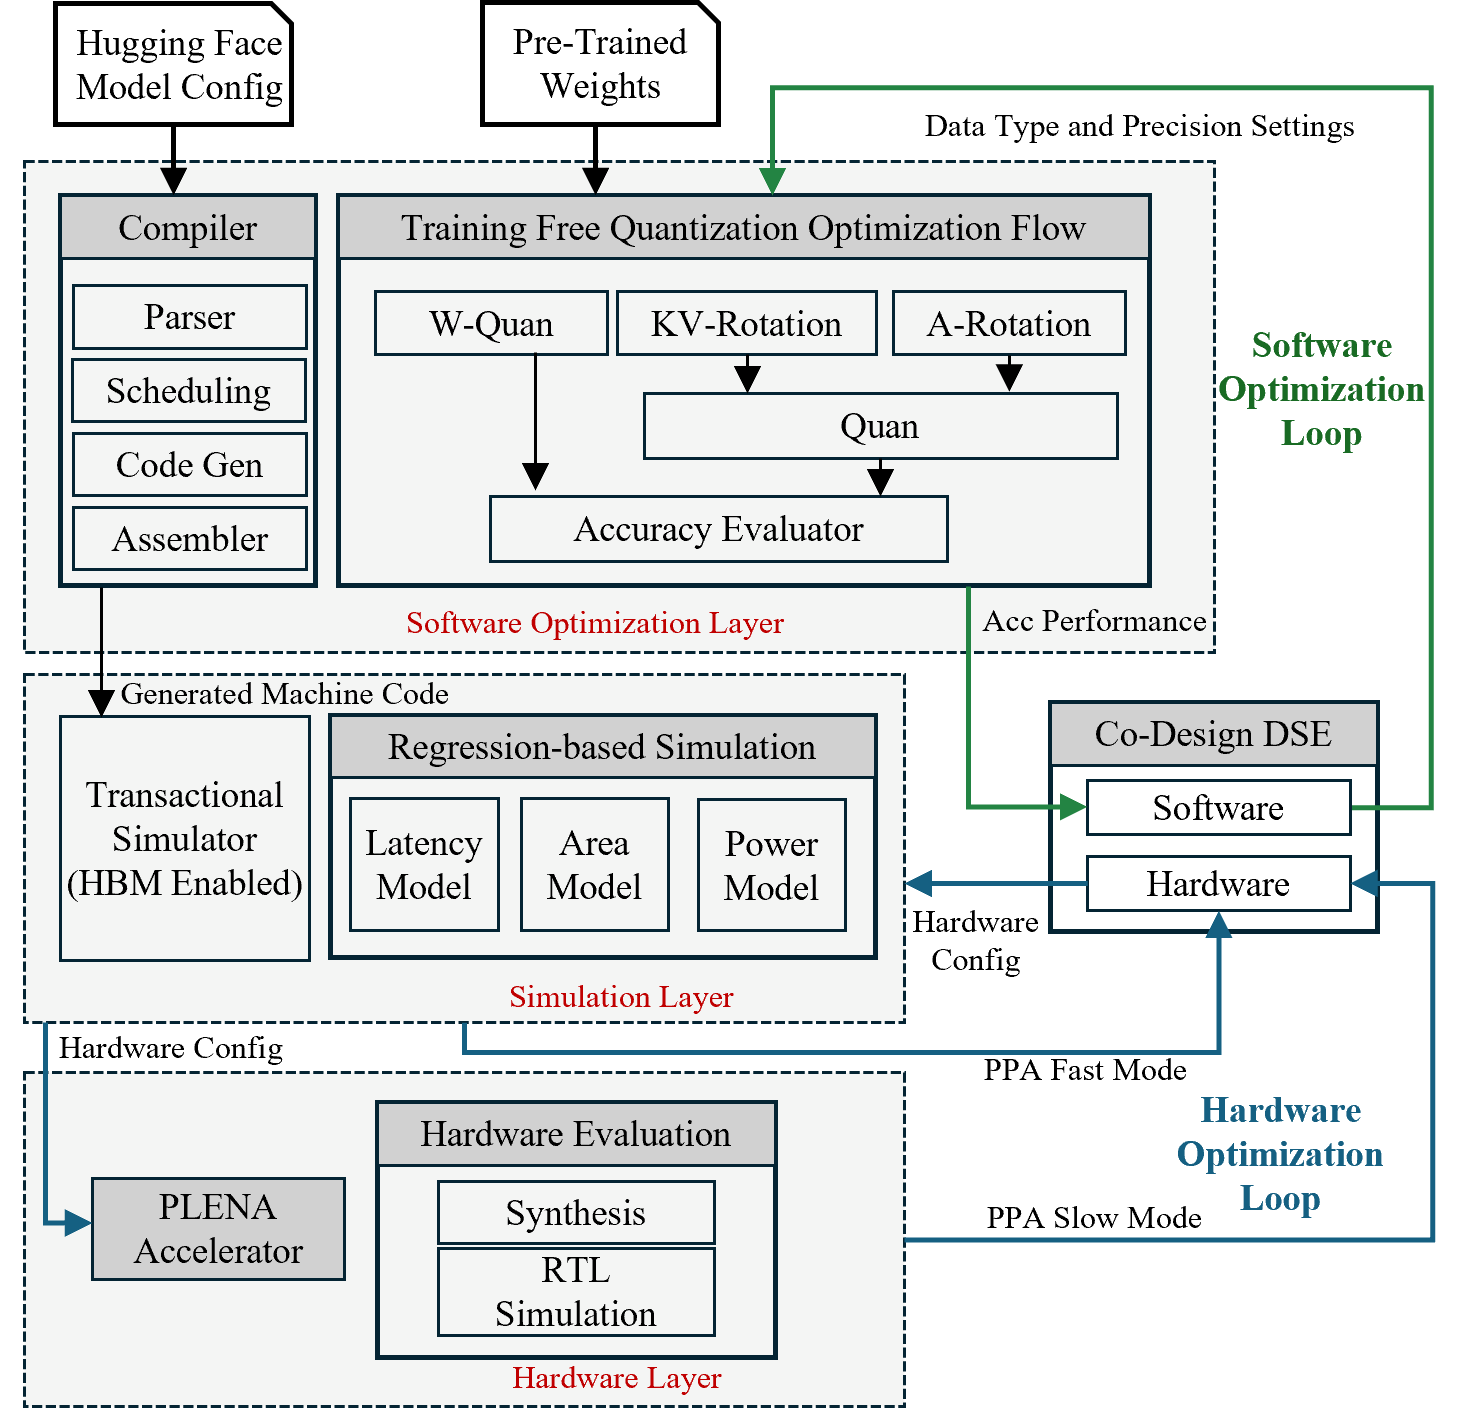
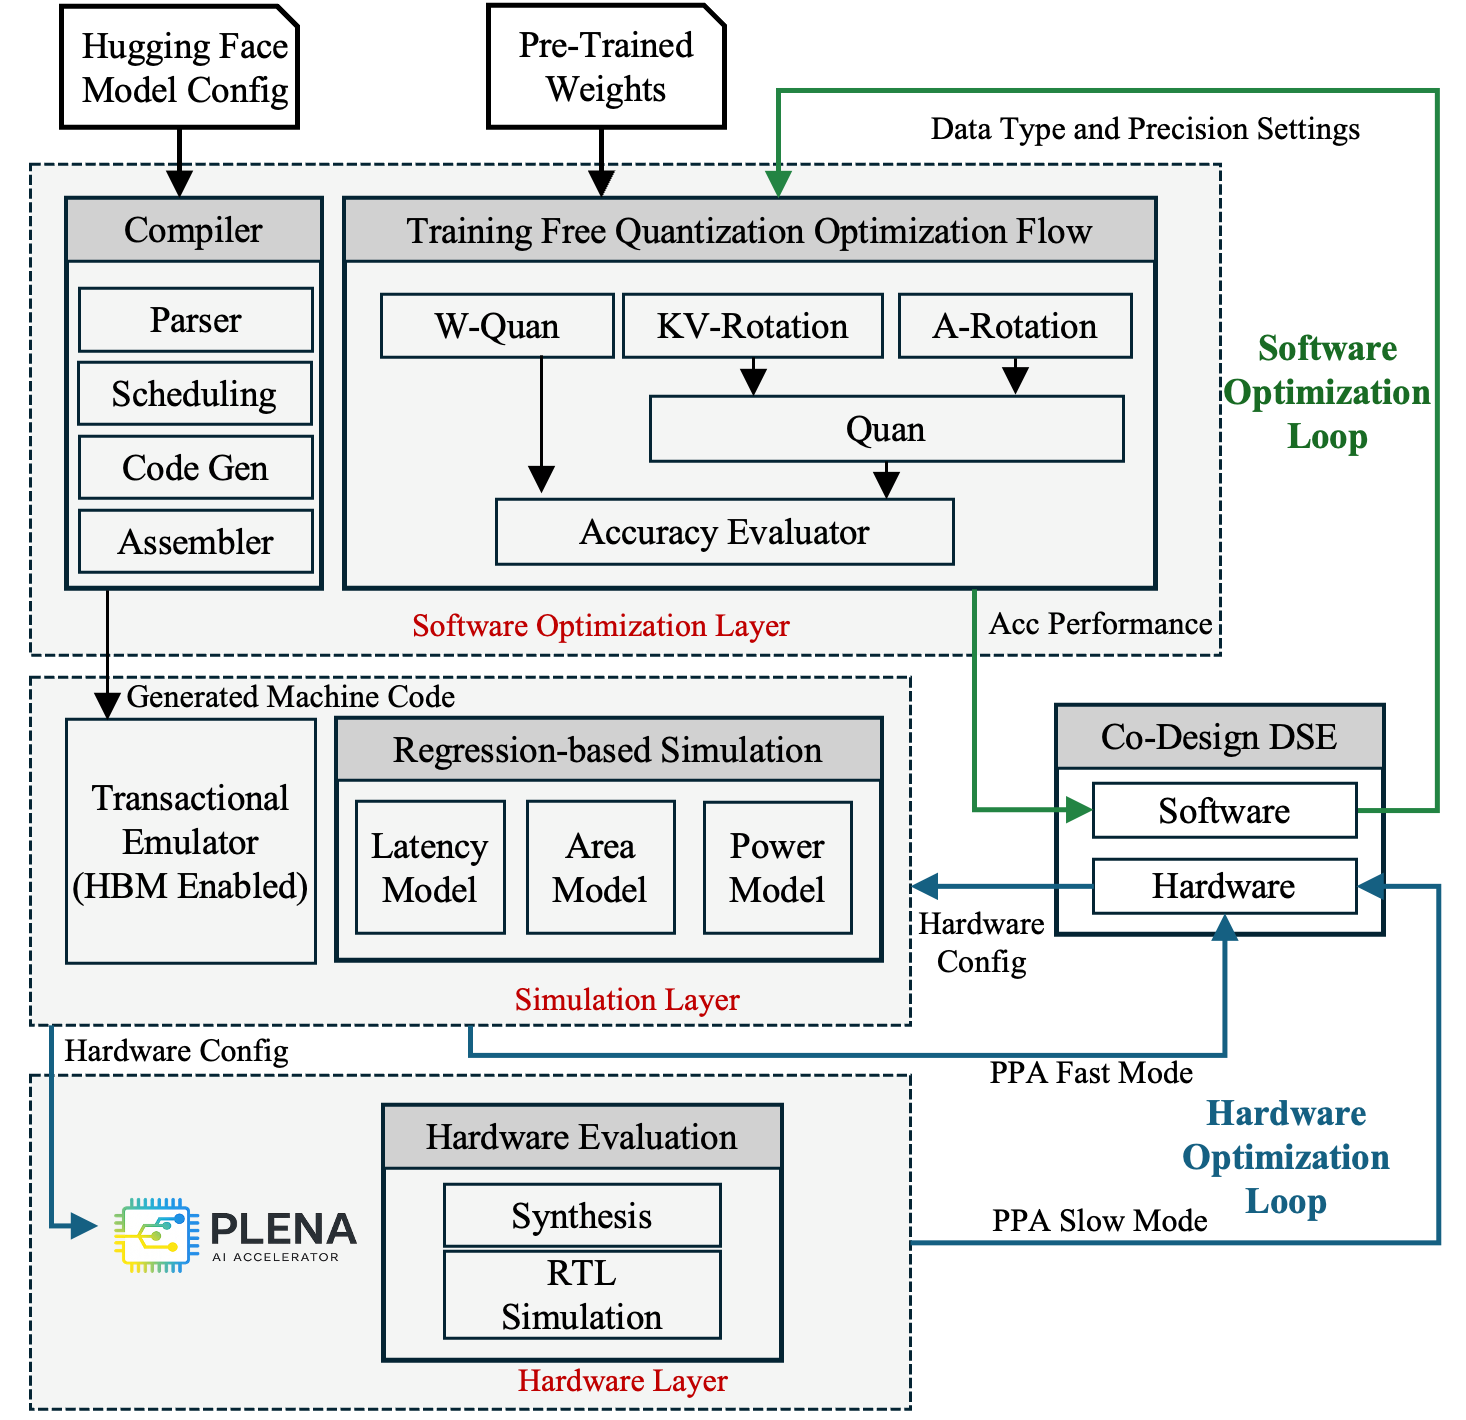
add figs for every subpage

diff --git a/doc/toolchain_overview.md b/doc/toolchain_overview.md
@@ -1,0 +1,61 @@
+# Toolchain Overview
+
+The PLENA toolchain is a full-stack framework that takes a Hugging Face model description and pre-trained weights through software optimization, simulation, and hardware evaluation. It is organized into three layers connected by a Co-Design Design Space Exploration (DSE) engine that drives two optimization loops: a **Software Optimization Loop** that tunes data type and precision settings against accuracy, and a **Hardware Optimization Loop** that tunes the accelerator configuration against Power, Performance, and Area (PPA).
+
+<div style="text-align: center;">
+  <img src="figs/PLENA_Sys.png" alt="PLENA System Architecture" style="max-width: 90%;">
+</div>
+
+---
+
+## Software Optimization Layer
+
+This layer ingests the model description and weights and produces both quantized weights and machine code for the accelerator.
+
+- **Compiler** — Lowers a Hugging Face model onto the PLENA stack. It contains:
+    - *Parser* — Converts the model graph into the compiler's internal representation.
+    - *Scheduling* — Orders and tiles operators to match the accelerator's pipeline and memory hierarchy.
+    - *Code Gen* — Emits instruction sequences targeting the PLENA ISA.
+    - *Assembler* — Produces the final machine code consumed by the simulator and the hardware.
+- **Training-Free Quantization Optimization Flow** — Applies post-training quantization without fine-tuning, using:
+    - *W-Quan* — Weight quantization.
+    - *KV-Rotation* — Rotation applied to the KV cache to suppress outliers prior to quantization.
+    - *A-Rotation* — Rotation applied to activations for the same purpose.
+    - *Quan* — The activation/KV quantization step that consumes the rotated tensors.
+- **Accuracy Evaluator** — Measures the model accuracy under the chosen quantization settings, providing the feedback signal that closes the Software Optimization Loop.
+
+---
+
+## Simulation Layer
+
+This layer consumes the generated machine code and the hardware configuration and provides fast, model-based performance estimates.
+
+- **Transactional Simulator (HBM Enabled)** — A cycle-approximate simulator that executes the generated machine code with an HBM memory model, capturing the behaviour relevant to long-context inference.
+- **Regression-based Simulation** — Lightweight analytical models used inside the DSE inner loop for rapid evaluation:
+    - *Latency Model* — Predicts end-to-end runtime.
+    - *Area Model* — Predicts silicon area.
+    - *Power Model* — Predicts power consumption.
+
+---
+
+## Hardware Layer
+
+This layer realizes a configuration as actual RTL and provides ground-truth PPA numbers.
+
+- **PLENA Accelerator** — The configurable RTL implementation parameterized by the hardware configuration supplied by the DSE.
+- **Hardware Evaluation** — Performs the slow, high-fidelity evaluation path:
+    - *Synthesis* — Produces area, timing, and power estimates from the synthesized design.
+    - *RTL Simulation* — Verifies functional correctness and gathers cycle-accurate performance data.
+
+---
+
+## Co-Design DSE
+
+The **Co-Design DSE** sits at the centre of the toolchain and explores the joint software/hardware design space. It drives two coupled loops:
+
+- **Software Optimization Loop** (green) — The DSE proposes *Data Type and Precision Settings*; the Software Optimization Layer applies them and reports back model accuracy from the Accuracy Evaluator.
+- **Hardware Optimization Loop** (blue) — The DSE proposes a *Hardware Config*; PPA is obtained in two modes:
+    - *PPA Fast Mode* — Uses the regression-based latency/area/power models for rapid inner-loop search.
+    - *PPA Slow Mode* — Uses synthesis and RTL simulation on the PLENA Accelerator for high-fidelity validation of promising candidates.
+
+Together these loops let PLENA jointly optimize quantization choices and hardware configuration for long-context LLM inference workloads.

diff --git a/doc/transactional_emulator.md b/doc/transactional_emulator.md
@@ -1,5 +1,10 @@
 # Transactional Emulator
 
+<div style="text-align: center;">
+  <img src="figs/PLENA_Sys_txn_sim.png" alt="Transactional Simulator highlighted in the PLENA system" style="max-width: 90%;">
+  <p><em>The Transactional Simulator within the PLENA toolchain.</em></p>
+</div>
+
 To evaluate architectural trade-offs, we developed a transaction-level (cycle-approximate) emulator in Rust that executes the generated machine code in an event-driven manner. The emulator models compute execution, instruction scheduling, and memory transactions at cycle granularity. It is integrated with [Ramulator](https://github.com/CMU-SAFARI/ramulator) and [DRAMSys](https://github.com/tukl-msd/DRAMSys) to provide detailed off-chip memory timing and bandwidth modeling, including bank-level behavior. This enables quantitative analysis of memory–compute interaction, which is critical because memory bandwidth constitutes a primary bottleneck in long-context LLM inference.
 
 The emulator supports the full PLENA architectural design space, including asymmetric mixed-precision arithmetic. By bridging analytic modeling and RTL simulation, it enables accurate evaluation of architectural mechanisms — such as flattened systolic mapping and on-chip FlashAttention — while remaining significantly faster than RTL simulation. We plan to open-source this emulator to facilitate research on LLM accelerator architectures.

diff --git a/doc/accuracy_evaluator.md b/doc/accuracy_evaluator.md
@@ -1,5 +1,10 @@
 # Quantization and Accuracy Evaluation
 
+<div style="text-align: center;">
+  <img src="figs/PLENA_Sys_accuracy.png" alt="Accuracy Evaluator highlighted in the PLENA system" style="max-width: 90%;">
+  <p><em>The Accuracy Evaluator within the PLENA toolchain.</em></p>
+</div>
+
 ## Quantization Methods
 
 PLENA uses post-training quantization (PTQ) based on the Microscaling (MX) data format to compress weights, activations, and the KV cache without retraining. An MX block is a group of elements that share a single scale factor; each block is defined by a tuple (datatype, bit-width, block size *B*). For example, `MXINT4` with *B* = 16 packs 16 values into 4-bit integers under one shared scale, while `MXFP4` with the same block size uses a 4-bit floating-point encoding instead.

diff --git a/doc/analytic_model.md b/doc/analytic_model.md
@@ -1,5 +1,10 @@
 # Analytic Model
 
+<div style="text-align: center;">
+  <img src="figs/PLENA_Sys_analytic.png" alt="Regression-based analytic models highlighted in the PLENA system" style="max-width: 90%;">
+  <p><em>The regression-based analytic models within the PLENA toolchain.</em></p>
+</div>
+
 The Analytic Model is PLENA's fast, closed-form cost estimator. It provides performance, area, and power numbers directly from a hardware configuration without running the transactional emulator or RTL synthesis, so the co-design search loop can sweep thousands of candidate configurations cheaply.
 
 ## Performance Analytic Model

diff --git a/doc/compiler.md b/doc/compiler.md
@@ -1,5 +1,10 @@
 # Compiler
 
+<div style="text-align: center;">
+  <img src="figs/PLENA_Sys_compiler.png" alt="Compiler highlighted in the PLENA system" style="max-width: 90%;">
+  <p><em>The Compiler within the PLENA toolchain.</em></p>
+</div>
+
 PLENA provides two compiler approaches.
 
 - **Direct-mapping compiler:** This compiler uses handwritten templates and maps the model directly to predefined templates for each layer. The templates are highly configurable and support different hardware configurations and layer dimensions. For example, a linear layer can be mapped to a configurable linear-layer template.

diff --git a/doc/co_design.md b/doc/co_design.md
@@ -1,4 +1,9 @@
 # Co-Design
 
+<div style="text-align: center;">
+  <img src="figs/PLENA_Sys_codesign.png" alt="Co-Design DSE highlighted in the PLENA system" style="max-width: 90%;">
+  <p><em>The Co-Design DSE within the PLENA toolchain.</em></p>
+</div>
+
 !!! warning "Work in Progress"
     This page is a work in progress. Content will be added in a future update.
